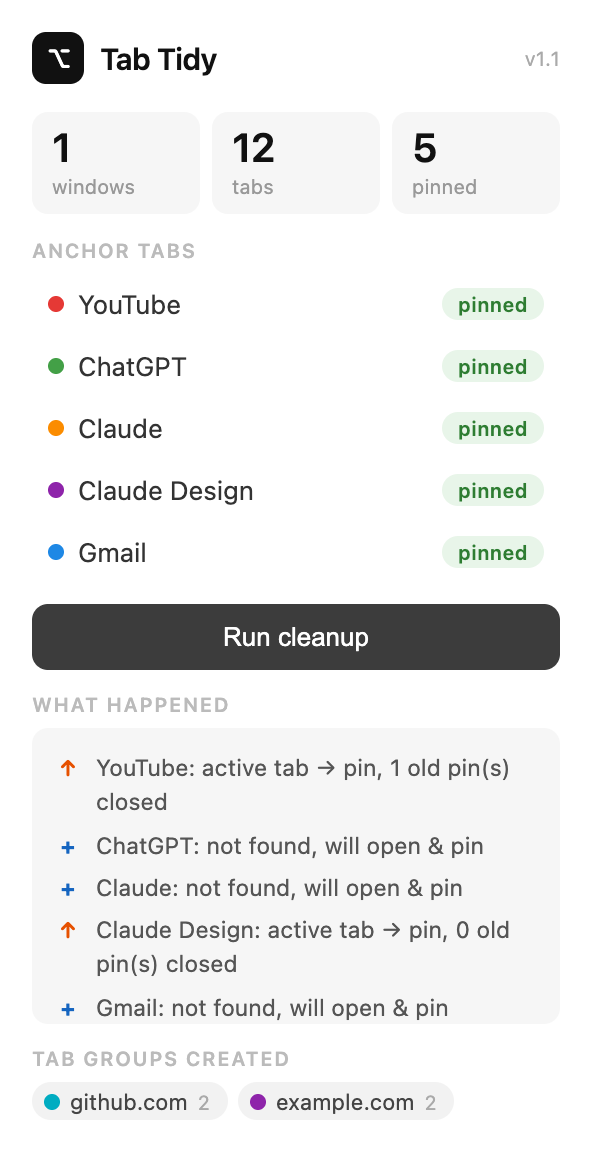
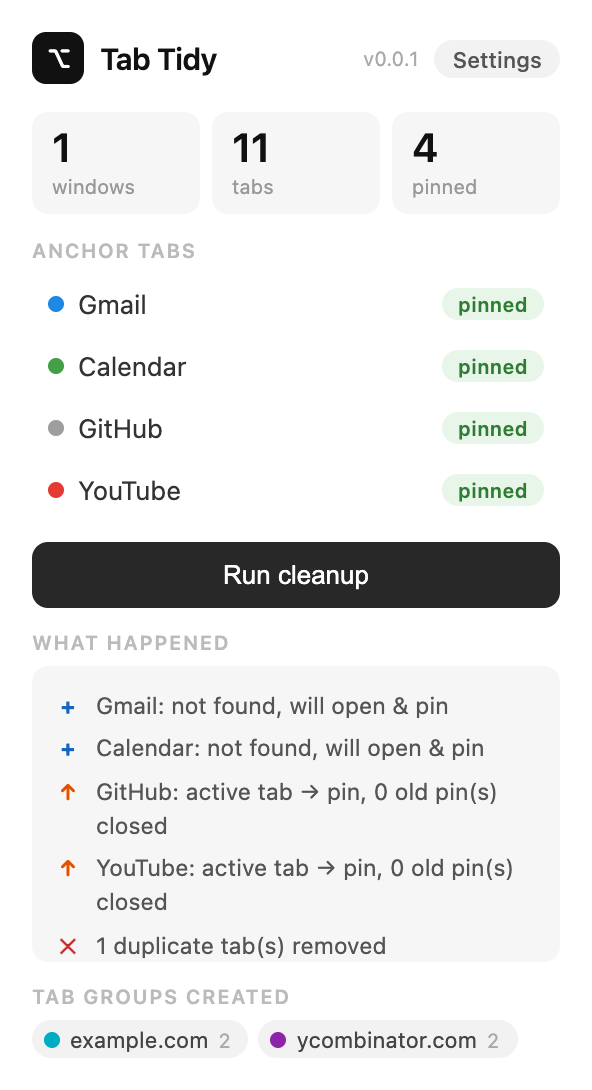
feat(settings): start new installs with neutral defaults
New installs used to default to the author's personal setup: five
pinned anchors and a localhost:5173 tab. A stranger's first cleanup
would open and pin those sites and close their copies.

New installs now start with no anchors and the first unpinned tab
turned off, so until someone sets Tab Tidy up, a cleanup only merges
windows, removes duplicates and groups tabs by domain. The Settings
page opens once on install so people can add their own anchors.

The old defaults stay in src/config.js as commented-out examples, and
a test now checks that the shipped defaults stay neutral. Users who
saved their settings keep them; anyone relying on the old defaults
without saving needs to add their anchors in Settings.

diff --git a/src/config.js b/src/config.js
@@ -16,22 +16,21 @@
 //   url    Opened when no matching tab exists.
 //   color  Chrome tab group color: grey, blue, red, yellow, green, pink,
 //          purple, cyan or orange. Used for the dot in the popup.
-export const PINNED_ANCHORS = [
-  { name: 'YouTube',       match: 'youtube.com',      url: 'https://youtube.com',      color: 'red'    },
-  { name: 'ChatGPT',       match: 'chatgpt.com',      url: 'https://chatgpt.com',      color: 'green'  },
-  { name: 'Claude',        match: 'claude.ai',        url: 'https://claude.ai',        color: 'orange' },
-  { name: 'Claude Design', match: 'claude.ai/design', url: 'https://claude.ai/design', color: 'purple' },
-  { name: 'Gmail',         match: 'mail.google.com',  url: 'https://mail.google.com',  color: 'blue'   },
-  // { name: 'Notion', match: 'notion.so', url: 'https://notion.so', color: 'grey' },
-];
+//
+// New installs start with none, so a first cleanup never opens or closes
+// sites the user didn't choose. Examples of what an entry looks like:
+//
+//   { name: 'Gmail',         match: 'mail.google.com',  url: 'https://mail.google.com',  color: 'blue'   },
+//   { name: 'YouTube',       match: 'youtube.com',      url: 'https://youtube.com',      color: 'red'    },
+//   { name: 'Claude',        match: 'claude.ai',        url: 'https://claude.ai',        color: 'orange' },
+//   { name: 'Claude Design', match: 'claude.ai/design', url: 'https://claude.ai/design', color: 'purple' },
+export const PINNED_ANCHORS = [];
 
 // A tab that always sits right after the pinned tabs (handy for a local dev
-// server). It is opened if missing. Set to null to turn this off by default.
-export const FIRST_UNPINNED_TAB = {
-  name:  'Dev Server',
-  match: 'localhost:5173',
-  url:   'http://localhost:5173',
-};
+// server). It is opened if missing. Off (null) for new installs. Example:
+//
+//   { name: 'Dev Server', match: 'localhost:5173', url: 'http://localhost:5173' }
+export const FIRST_UNPINNED_TAB = null;
 
 // Colors cycled through for the per-domain tab groups (Chrome color tokens).
 // Not editable on the options page yet.

diff --git a/test/settings.test.js b/test/settings.test.js
@@ -30,11 +30,20 @@ test('defaultSettings mirrors src/config.js', () => {
 
 test('defaultSettings returns a fresh copy every time', () => {
   const a = defaultSettings();
-  a.anchors[0].name = 'changed';
+  a.anchors.forEach(x => { x.name = 'changed'; });
   a.anchors.push(anchor());
   a.firstTab.enabled = !a.firstTab.enabled;
+  a.domainGroupColors.push('red');
   assert.deepEqual(defaultSettings().anchors, PINNED_ANCHORS);
   assert.notEqual(defaultSettings().firstTab.enabled, a.firstTab.enabled);
+  assert.deepEqual(defaultSettings().domainGroupColors, DOMAIN_GROUP_COLORS);
+});
+
+// A first cleanup must never open or close sites the user didn't choose.
+test('new installs start neutral: no anchors, first tab off', () => {
+  const d = defaultSettings();
+  assert.deepEqual(d.anchors, []);
+  assert.equal(d.firstTab.enabled, false);
 });
 
 test('the shipped defaults pass validation', () => {

diff --git a/src/background/index.js b/src/background/index.js
@@ -5,6 +5,12 @@
 import { previewTabs } from './preview.js';
 import { tidyTabs } from './tidy.js';
 
+// New installs start with no anchors, so open the settings page once to let
+// people pick their own. Updates and browser restarts don't trigger this.
+chrome.runtime.onInstalled.addListener(({ reason }) => {
+  if (reason === chrome.runtime.OnInstalledReason.INSTALL) chrome.runtime.openOptionsPage();
+});
+
 chrome.runtime.onMessage.addListener((msg, _sender, sendResponse) => {
   if (msg.action === 'tidy') {
     tidyTabs()

diff --git a/README.md b/README.md
@@ -8,7 +8,7 @@ A one-click Chrome extension that cleans up tab chaos. It merges all your window
 No accounts, no network requests and no tracking: everything happens locally in your browser.
 
 <p align="center">
-  <img src="docs/popup.png" width="300" alt="The Tab Tidy popup after a cleanup: window, tab and pin counts, five pinned anchor tabs, a log of what changed and the domain groups created">
+  <img src="docs/popup.png" width="300" alt="The Tab Tidy popup after a cleanup: window, tab and pin counts, four pinned anchor tabs, a log of what changed and the domain groups created">
 </p>
 
 ## What a cleanup does
@@ -20,7 +20,7 @@ Click the toolbar icon and press **Run cleanup**:
 3. **Merges windows.** Every tab moves into your focused window (or the biggest window if none is focused).
 4. **Opens missing anchors.** Any anchor site without a tab gets opened and pinned.
 5. **Sorts pinned tabs** into the order you configured.
-6. **Places a "first" tab.** An optional tab (by default a local dev server) is placed right after the pins, and opened if it's missing.
+6. **Places a "first" tab.** If you turn this on, a tab you choose (a local dev server, say) is placed right after the pins, and opened if it's missing.
 7. **Groups by domain.** Any root domain with 2 or more unpinned tabs gets its own colored tab group.
 
 The popup shows a live summary (windows, tabs, pins and the state of each anchor) and a log of what changed.
@@ -40,12 +40,15 @@ Tab Tidy isn't on the Chrome Web Store yet, so you install it from source:
 3. Turn on **Developer mode** (top right).
 4. Click **Load unpacked** and select the **`src/`** folder inside the repo.
 5. Pin Tab Tidy to your toolbar from the puzzle-piece menu.
+6. The **Settings** page opens on its own. Add the sites you want kept pinned (see [Configure](#configure)), or skip it and just use the cleanup.
 
 Works in Chrome and other Chromium browsers (Edge, Brave, Arc) that support Manifest V3 and tab groups.
 
 ## Configure
 
-The defaults are the author's own setup, so you'll probably want to change them. Click **Settings** in the popup (or right-click the toolbar icon and choose **Options**) to:
+Tab Tidy starts with **no anchors** and the first unpinned tab **turned off**, so until you set it up, a cleanup only merges windows, removes duplicates and groups tabs by domain. It never opens or pins a site you didn't choose.
+
+The Settings page opens when you install Tab Tidy. To get back to it later, click **Settings** in the popup (or right-click the toolbar icon and choose **Options**). There you can:
 
 - add, remove and reorder your **pinned anchors**, and pick a color for each;
 - edit the **first unpinned tab**, or turn it off;

diff --git a/CHANGELOG.md b/CHANGELOG.md
@@ -6,6 +6,7 @@ The format follows [Keep a Changelog](https://keepachangelog.com/en/1.1.0/).
 ## [Unreleased]
 
 ### Changed
+- New installs start with no pinned anchors and the first unpinned tab turned off, so a first cleanup never opens or closes sites you didn't choose. The old defaults were the author's personal setup.
 - Reorganized the project for open source: the extension now lives in `src/`, the background script is split into ES modules and the popup has separate HTML, CSS and JS files.
 - Settings are edited on the new options page instead of in code. `src/config.js` now holds the defaults, which apply until you save your own settings.
 - The first unpinned tab can be turned off (on the options page, or with `FIRST_UNPINNED_TAB = null` in the defaults).
@@ -17,6 +18,7 @@ The format follows [Keep a Changelog](https://keepachangelog.com/en/1.1.0/).
 - The popup builds DOM nodes with `textContent` instead of `innerHTML`.
 
 ### Added
+- The Settings page opens automatically when Tab Tidy is first installed.
 - Options page (popup → **Settings**, or right-click the icon → **Options**): add, remove and reorder pinned anchors, choose their colors, edit or turn off the first unpinned tab, and reset to defaults. Input is checked before saving.
 - `storage` permission, used to save settings in `chrome.storage.sync`.
 - MIT license, contributor docs, issue and PR templates.

diff --git a/CONTRIBUTING.md b/CONTRIBUTING.md
@@ -79,7 +79,7 @@ Most of the extension talks to Chrome APIs that the unit tests can't reach, so *
 - **Put new pure logic in `matching.js`** (or a new module without `chrome.*` calls) and add tests for it in `test/`.
 - **Be careful with permissions.** Adding a permission changes the install warning for every user. Explain why in the PR.
 - **Never use `innerHTML` with tab data.** Page titles and URLs come from websites. Build DOM nodes and set `textContent` (see `el()` in `popup.js`).
-- **Keep your personal config out of PRs.** Use the options page for your own setup. Only change `src/config.js` when the PR is about the defaults.
+- **Keep your personal config out of PRs.** Use the options page for your own setup. Only change `src/config.js` when the PR is about the defaults, and keep them neutral: new installs start with no anchors and the first unpinned tab off, so a first cleanup never opens or closes sites the user didn't pick. A test in `test/settings.test.js` checks this.
 - **Small, focused PRs** are much easier to review than large ones.
 - **Update [CHANGELOG.md](CHANGELOG.md)** under *Unreleased* for any user-visible change.
 
